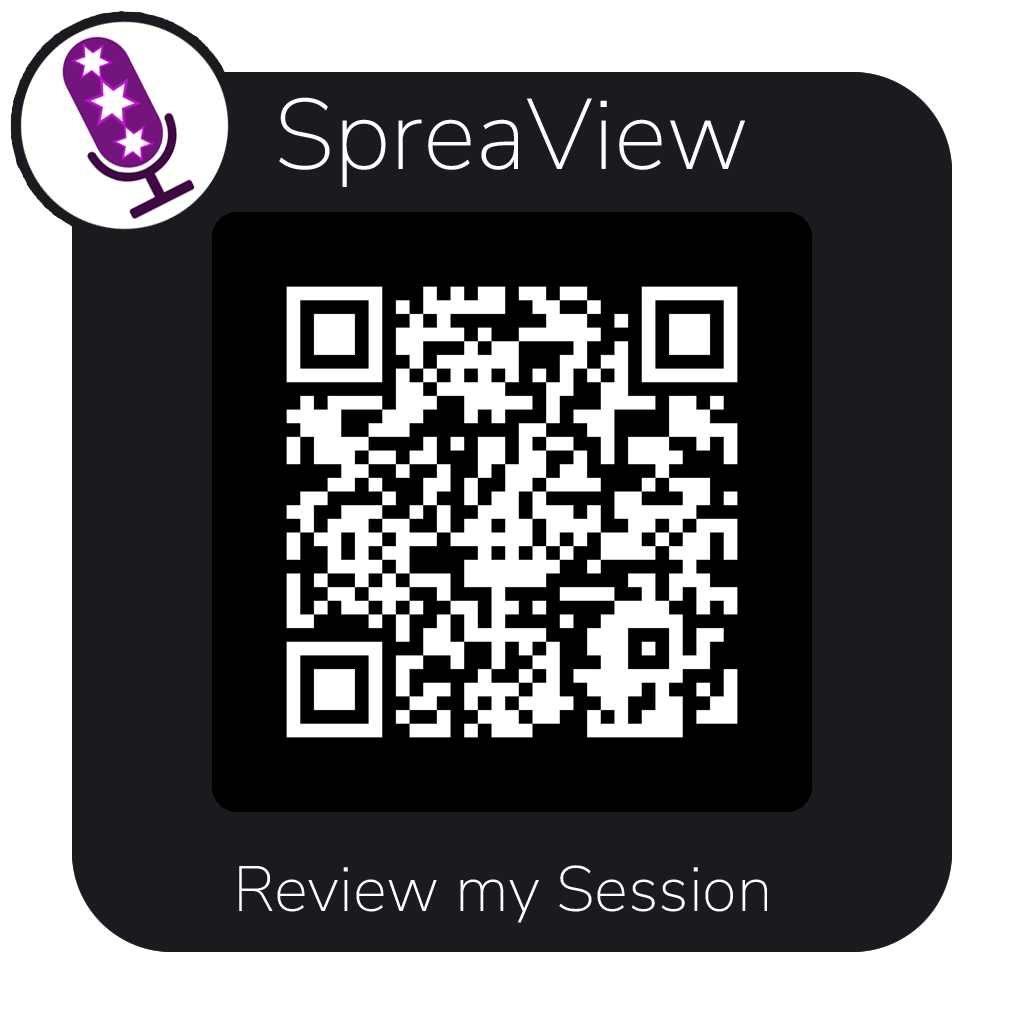
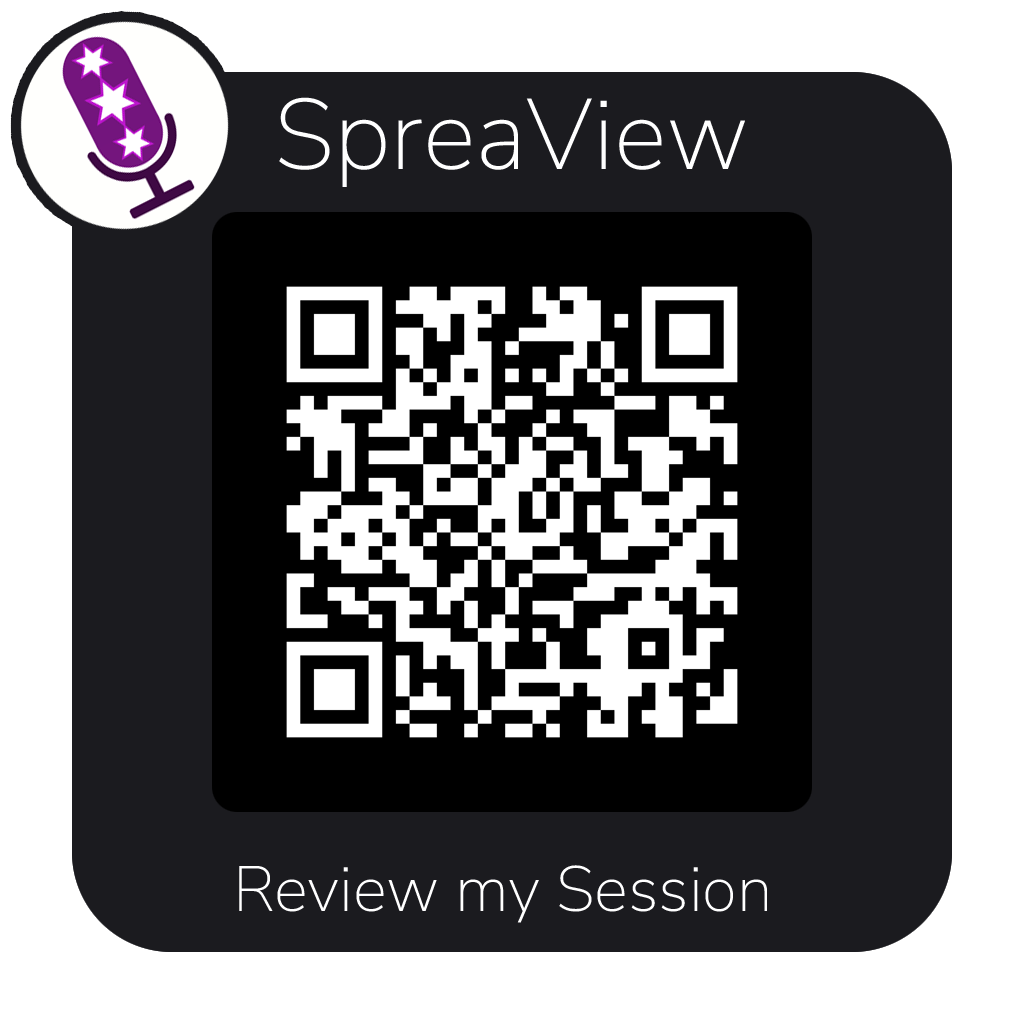
Update background image and add feedback section with QR code

Changed region(s): [[0.2812, 0.2812, 0.6875, 0.7188], [0.5312, 0.2812, 0.625, 0.4062], [0.5938, 0.6875, 0.6562, 0.7188]]

diff --git a/slides/Slides.md b/slides/Slides.md
@@ -4,13 +4,9 @@ theme: custom-default
 footer: 'https://chris-ayers.com'
 ---
 
-![bg](./img/AzureDevSummit.png)
+![bg](./img/techorama-resilient-slide.png)
 
 ---
-
-<!-- _color: white -->
-
-![bg](./img/ads-background.png)
 
 <div class="columns">
 <div>
@@ -1121,3 +1117,9 @@ _Microsoft_
 </div>
 
 </div>
+
+---
+
+# Feedback
+
+![bg fit](./img/resilient_by_design-qr-code.png)
